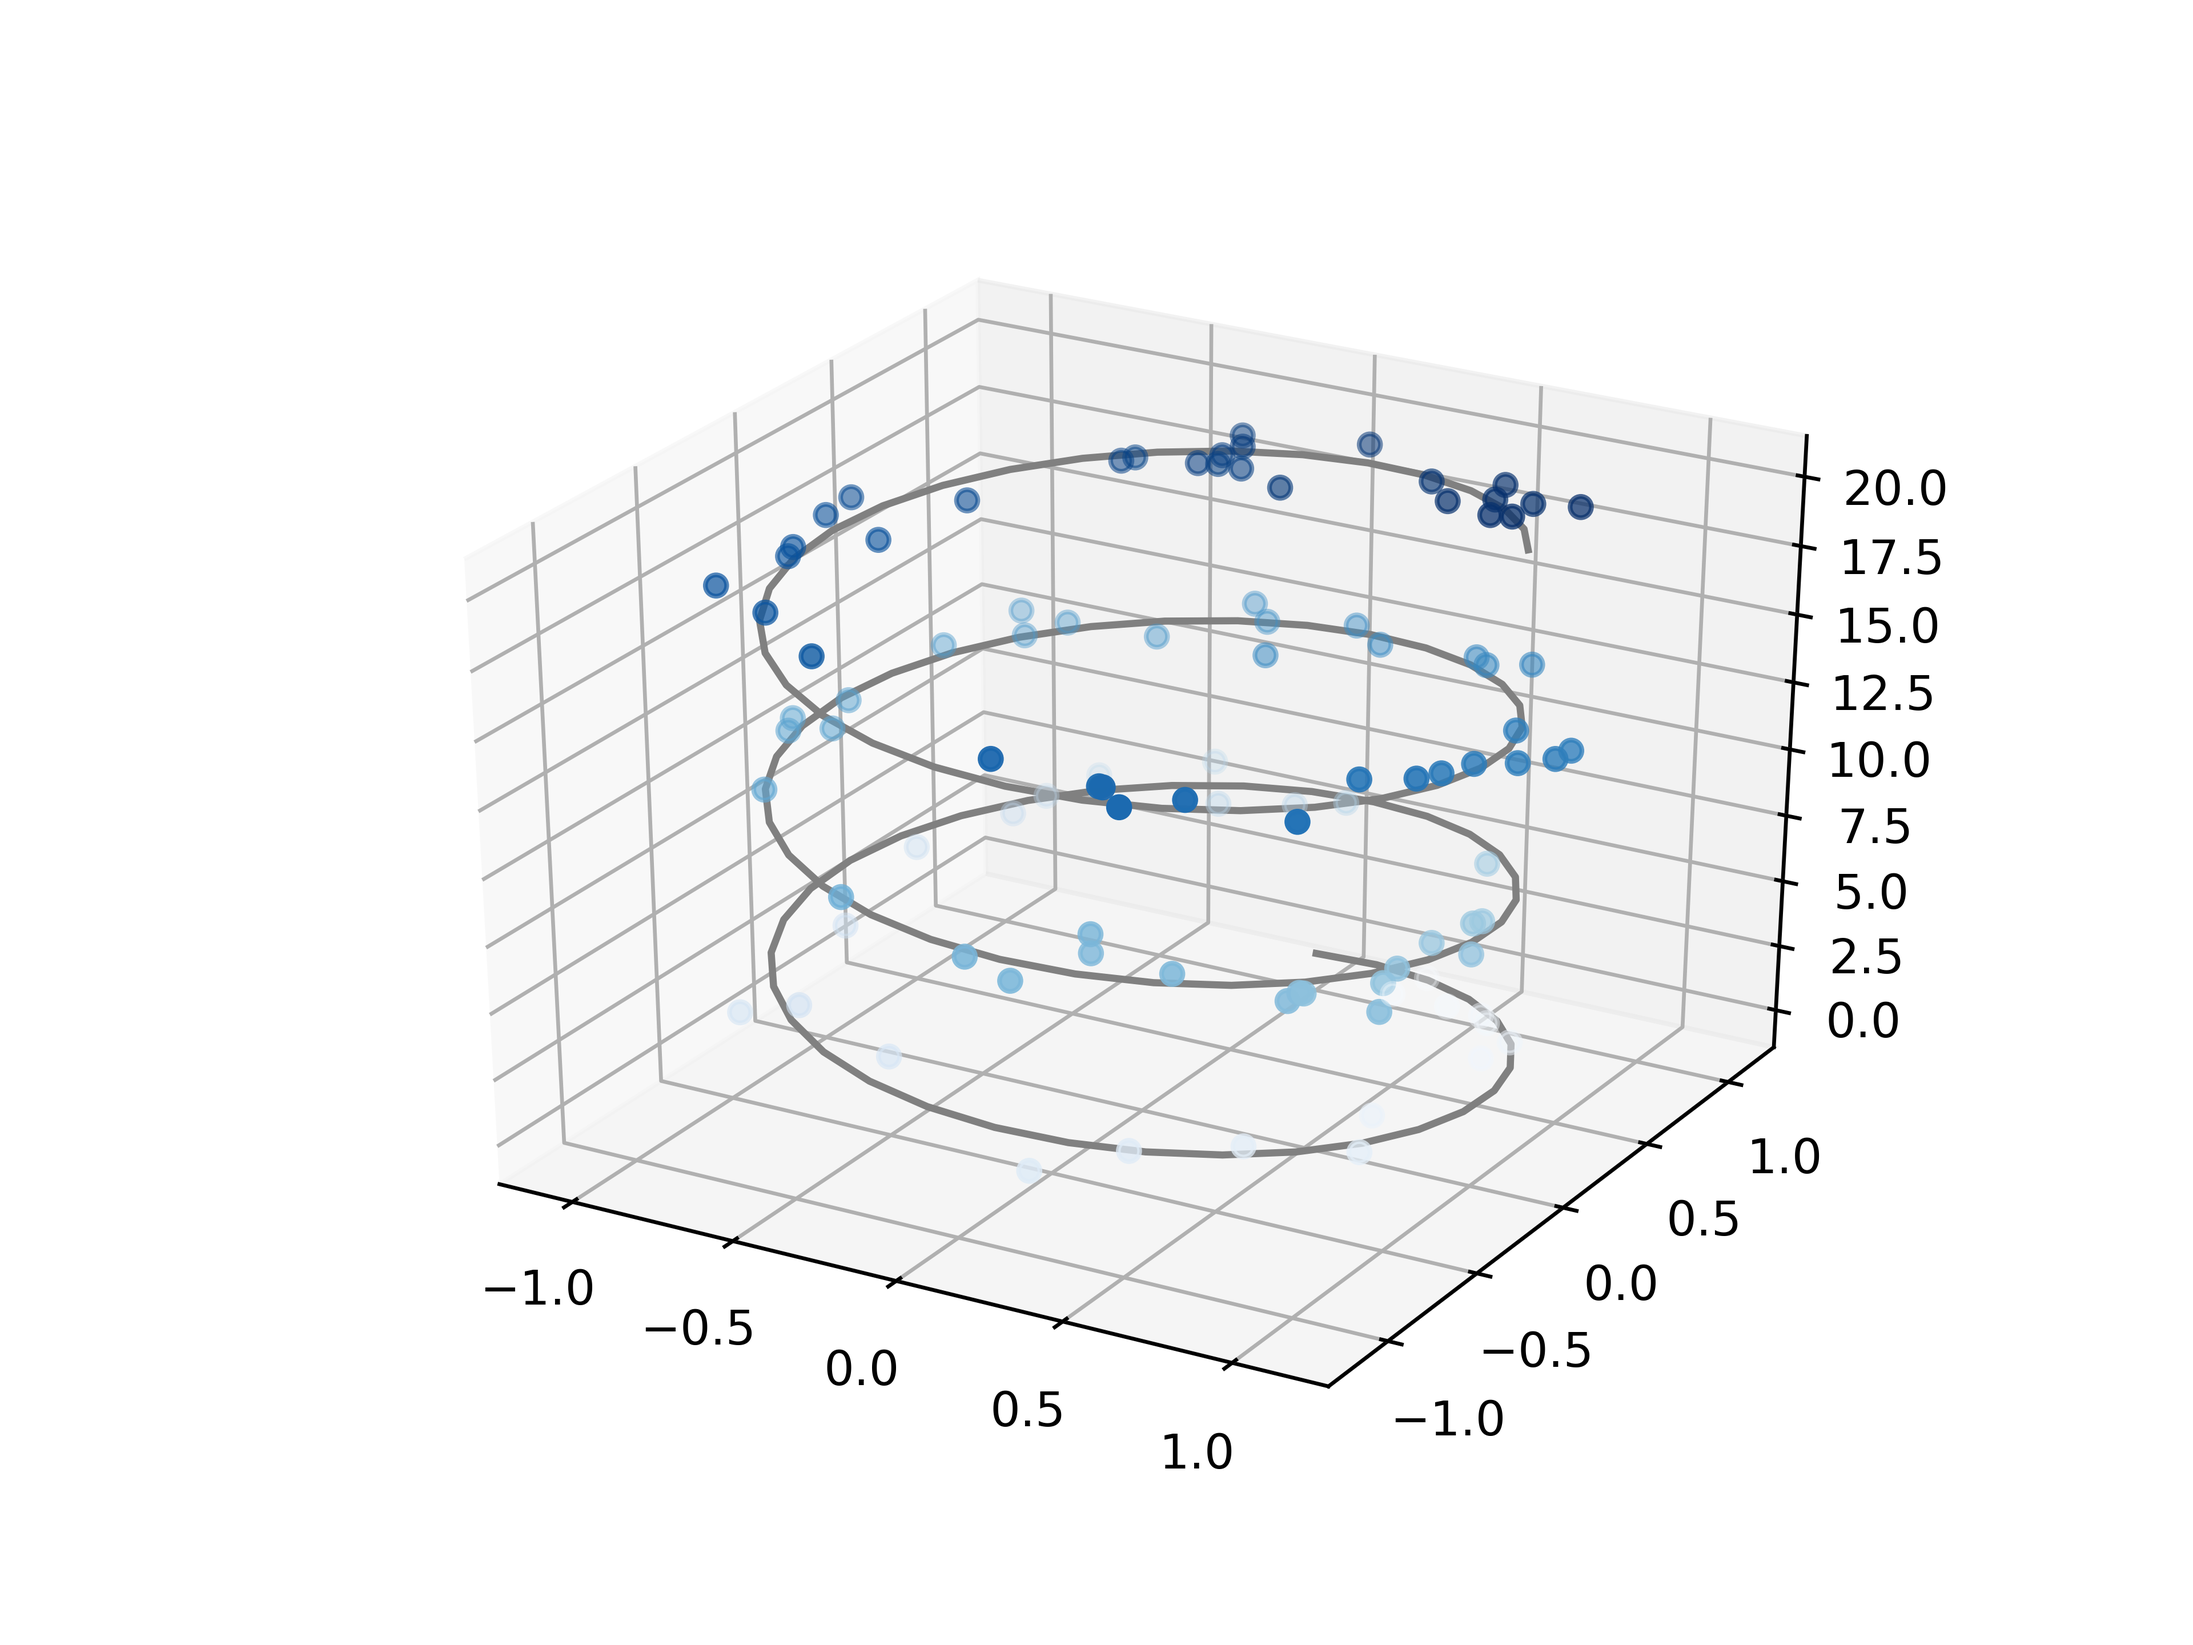
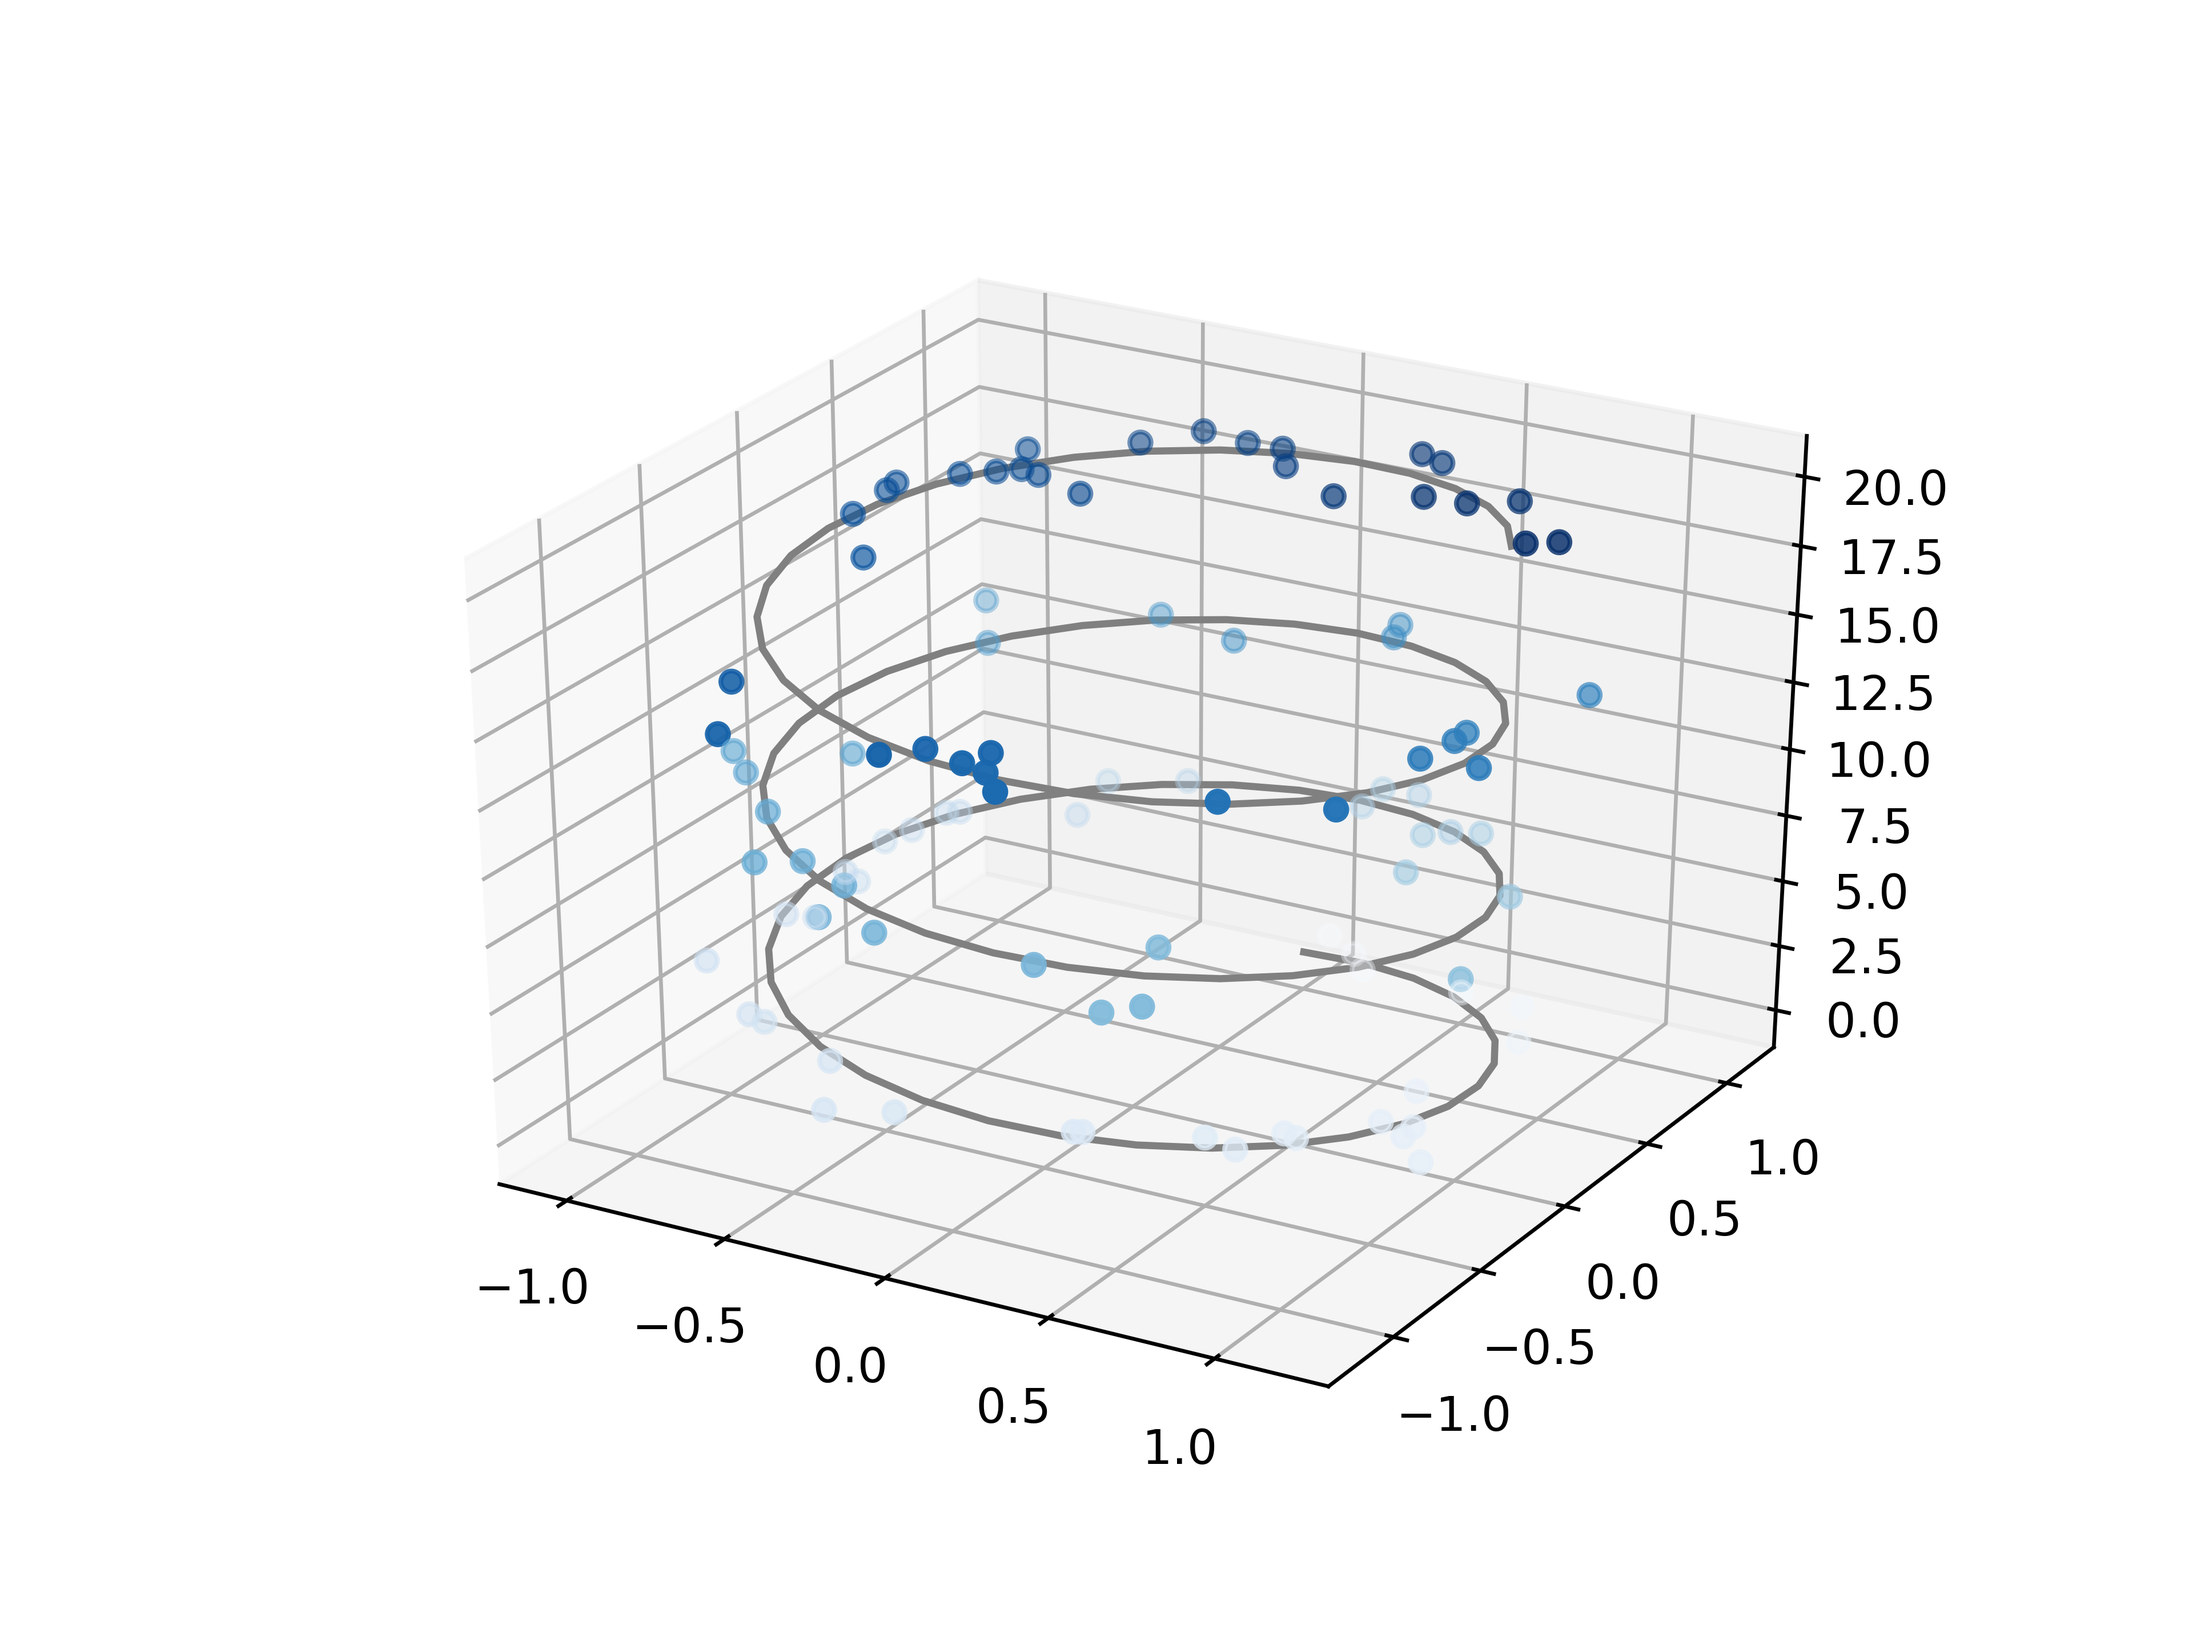
Updated ODE Model Dimensions

diff --git a/utils/spiral_generator.py b/utils/spiral_generator.py
@@ -29,9 +29,9 @@ class Regular_Spiral_Generator():
         self.y_obs = (torch.cos(self.z_obs) + 0.1 * np.random.randn(n_pts)).float()
 
         self.t = self.z.float()
-        self.obs = torch.stack((self.x_obs, self.y_obs), dim=1).float()
+        self.obs = torch.stack((self.x_obs, self.y_obs, self.z_obs), dim=1).float()
 
-        self.true_y = torch.stack((self.x, self.y), dim=1).float()
+        self.true_y = torch.stack((self.x, self.y, self.z), dim=1).float()
         self.true_y0 = self.true_y[0]
 
     def plot(self):
@@ -62,7 +62,7 @@ class Regular_Spiral_Generator():
         batch_y0, batch_t, batch_y = self.get_random_batch()
         
         ax = plt.axes(projection='3d')
-        ax.plot3D(batch_y[:, :, 0], batch_y[:, :, 1], batch_t, 'gray')
+        ax.plot3D(batch_y[:, :, 0], batch_y[:, :, 1], batch_y[:, : 2], 'gray')
         ax.scatter3D(self.x_obs, self.y_obs, self.z_obs, c=self.z_obs, cmap='Blues')
 
         return ax
@@ -72,7 +72,7 @@ class Regular_Spiral_Generator():
         ax = plt.axes(projection='3d')
         ax.plot3D(self.x, self.y, self.z, 'gray')
         ax.scatter3D(self.x_obs, self.y_obs, self.z_obs, c=self.z_obs, cmap='Blues')
-        ax.plot3D(pred_y[:, 0], pred_y[:, 1], self.z, 'red')
+        ax.plot3D(pred_y[:, 0], pred_y[:, 1], pred_y[:, 2], 'red')
 
         plt.savefig('./output/ode.png', dpi=600, transparent=True)
         plt.show()

diff --git a/networks/ode.py b/networks/ode.py
@@ -62,7 +62,7 @@ def train(ode_model, data_gen, iters, method="dopri5", step_size="1"):
 
     with torch.no_grad():
 
-        pred_y = odeint(ode_model, data_gen.true_y0, data_gen.z)
+        pred_y = odeint(ode_model, data_gen.true_y0, data_gen.t)
 
         loss = torch.mean(torch.abs(pred_y - data_gen.true_y))
         data_gen.plot_prediction(data_gen.true_y, pred_y)

diff --git a/fig6.py b/fig6.py
@@ -49,7 +49,7 @@ ground_truth = data_gen.get_plot()
 plt.savefig('./output/ground_truth.png', dpi=600, transparent=True)
 
 # Build and train models
-ode_net = ODE_Net(2, 50, 2, crossbar(device_params))
+ode_net = ODE_Net(3, 50, 3, crossbar(device_params))
 
 ode_train(ode_net, data_gen, 500)
 
